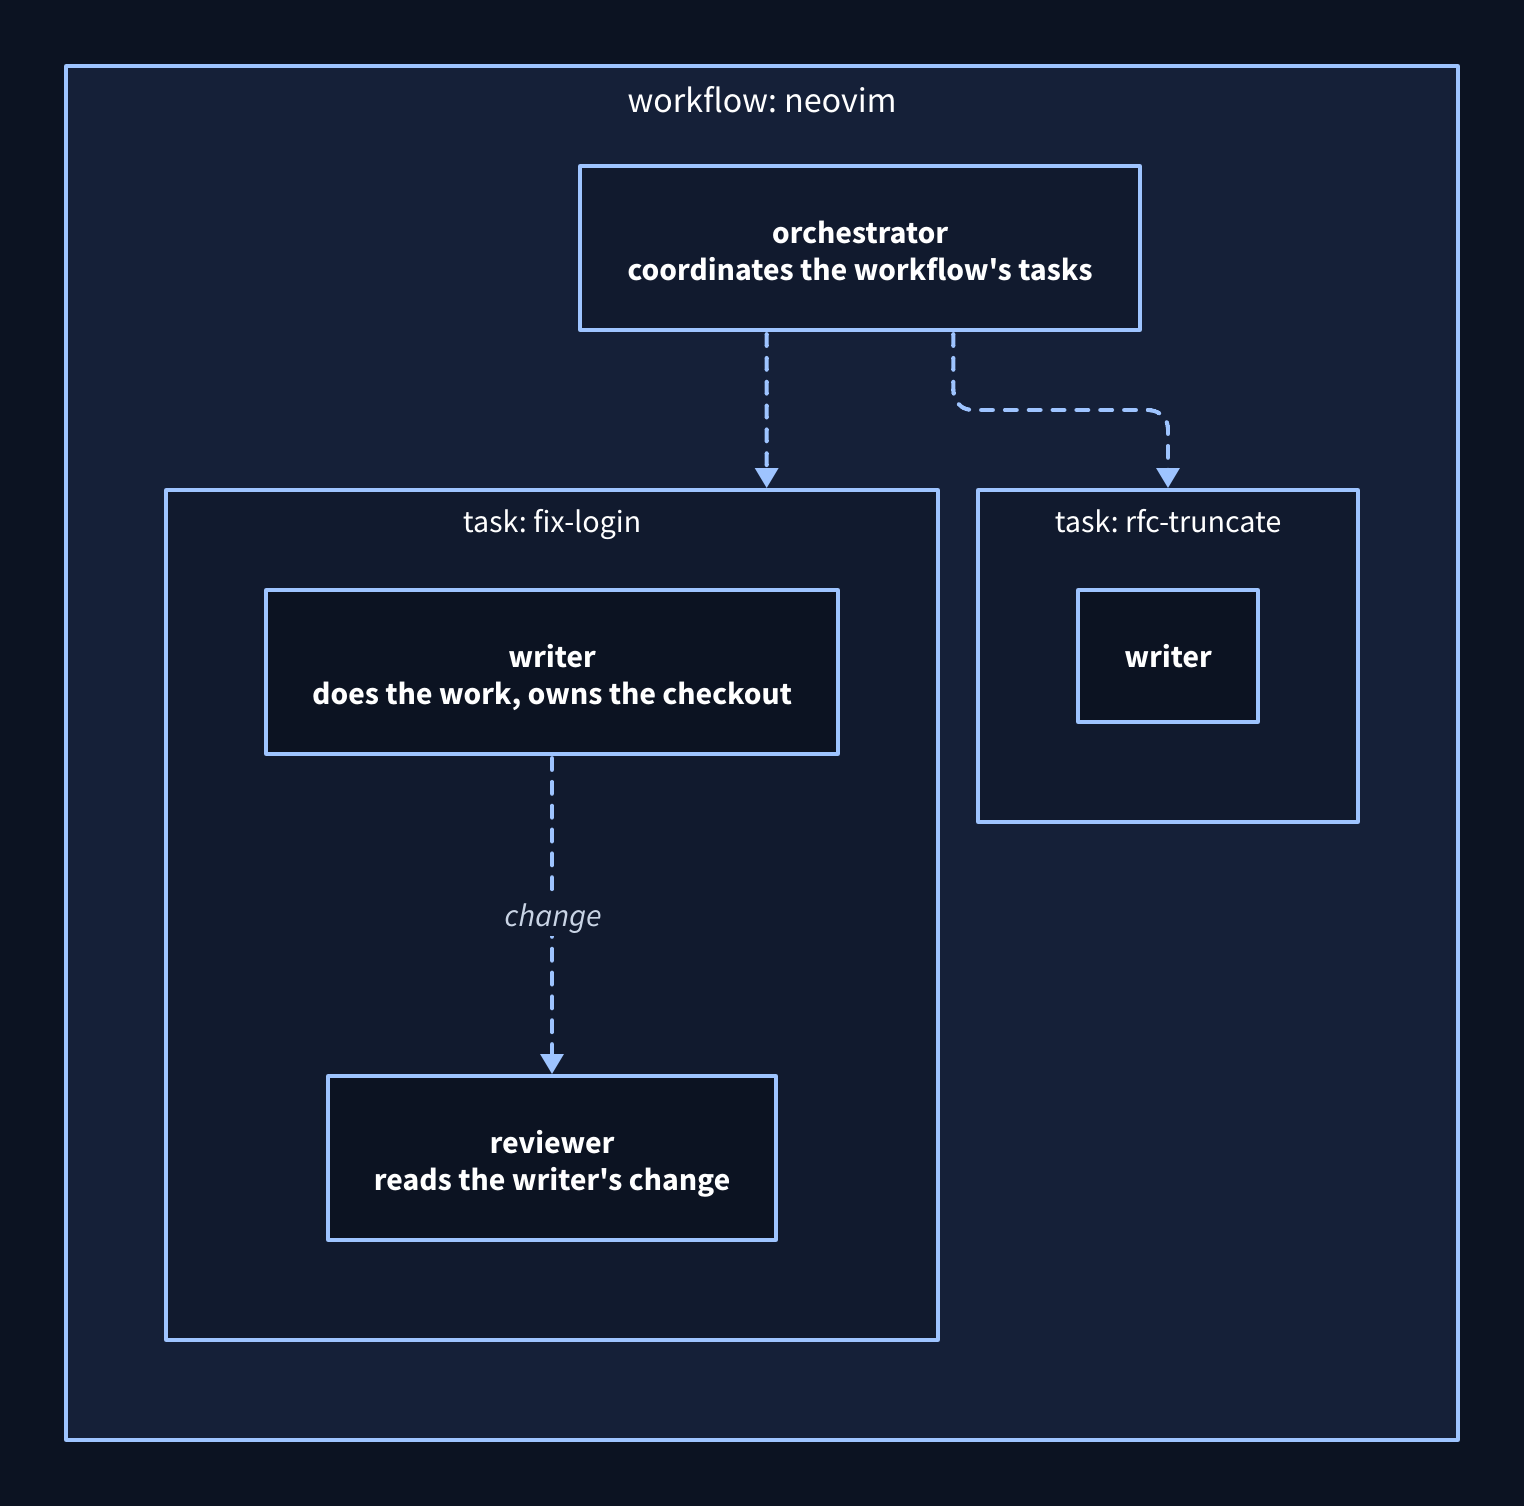
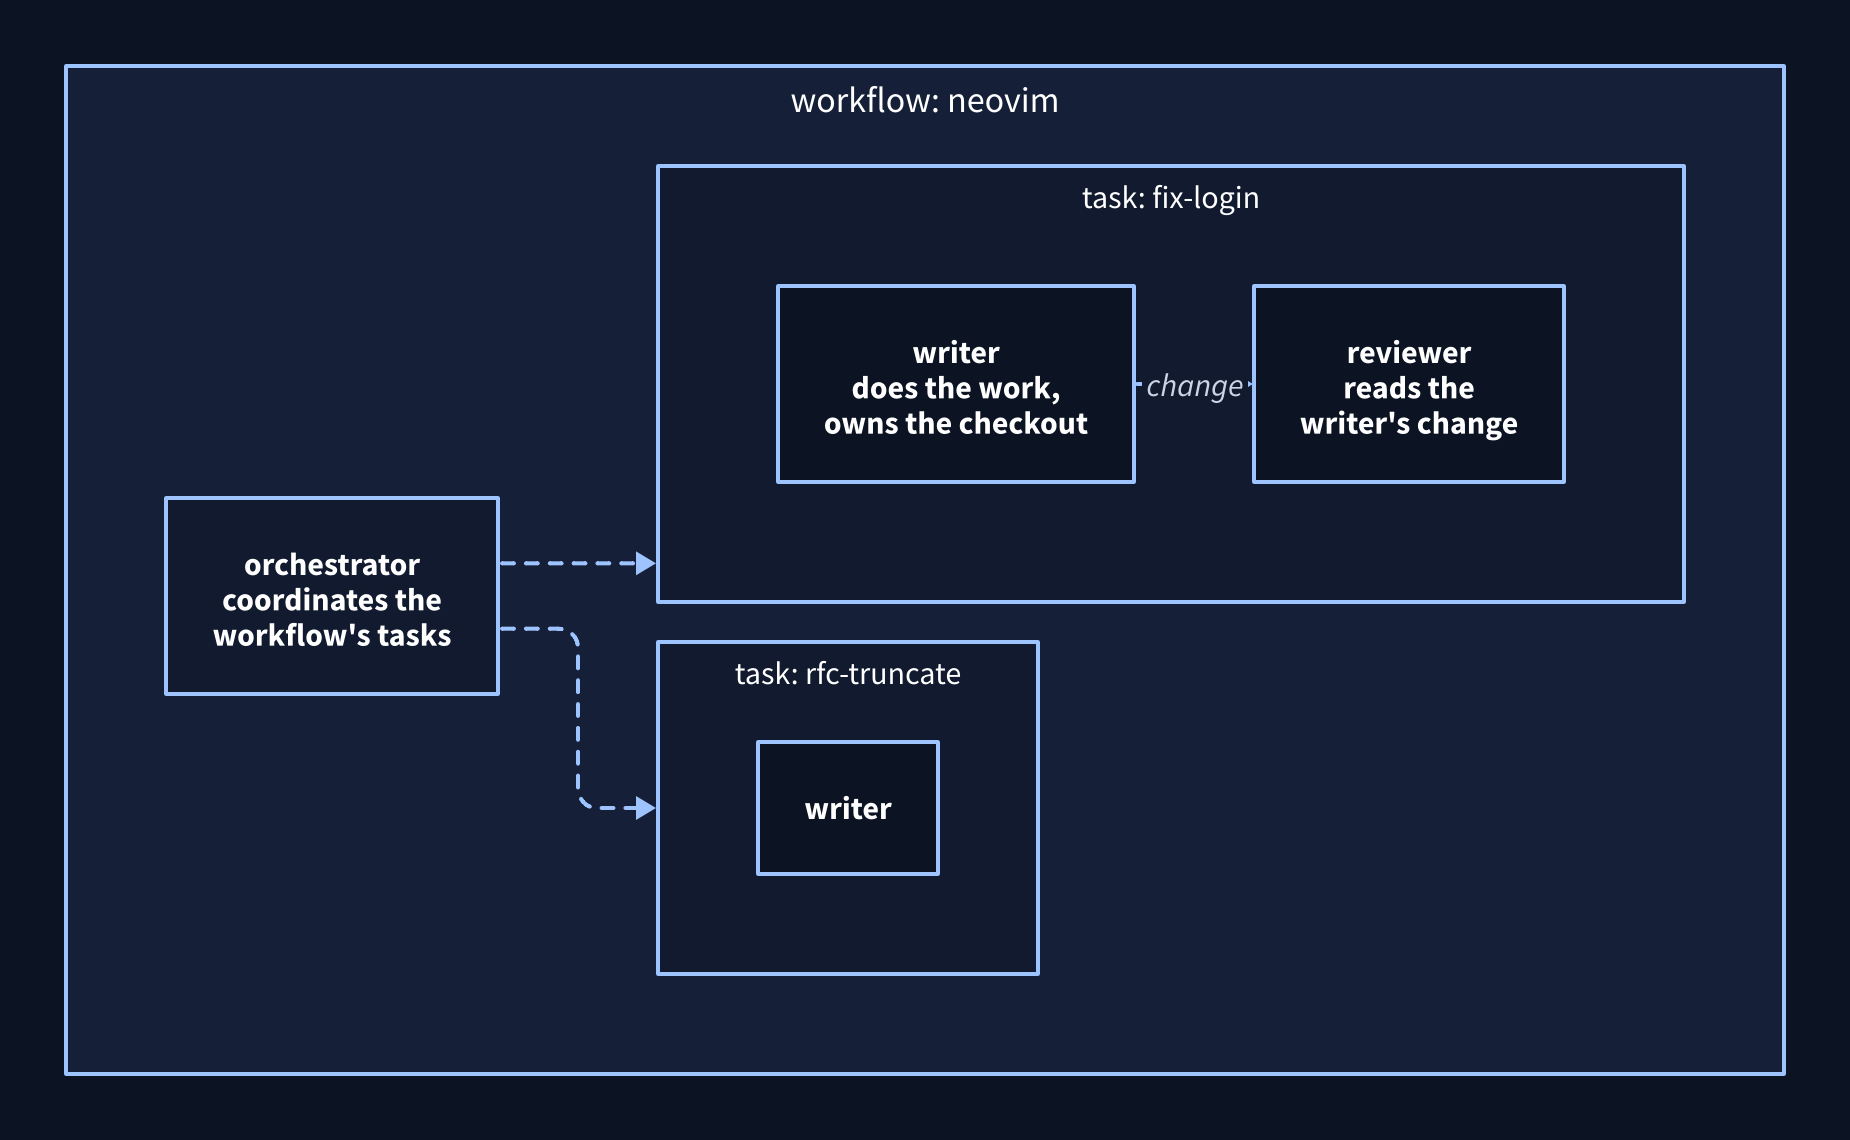
docs: lay the diagrams out to fill the column

diff --git a/docs/src/styles/global.css b/docs/src/styles/global.css
@@ -527,13 +527,6 @@
   border-radius: 12px;
 }
 
-.doc-content figure.diagram img {
-  width: auto;
-  max-width: 100%;
-  max-height: 36rem;
-  margin-inline: auto;
-}
-
 .doc-content figure.placeholder {
   display: flex;
   aspect-ratio: 16 / 9;
